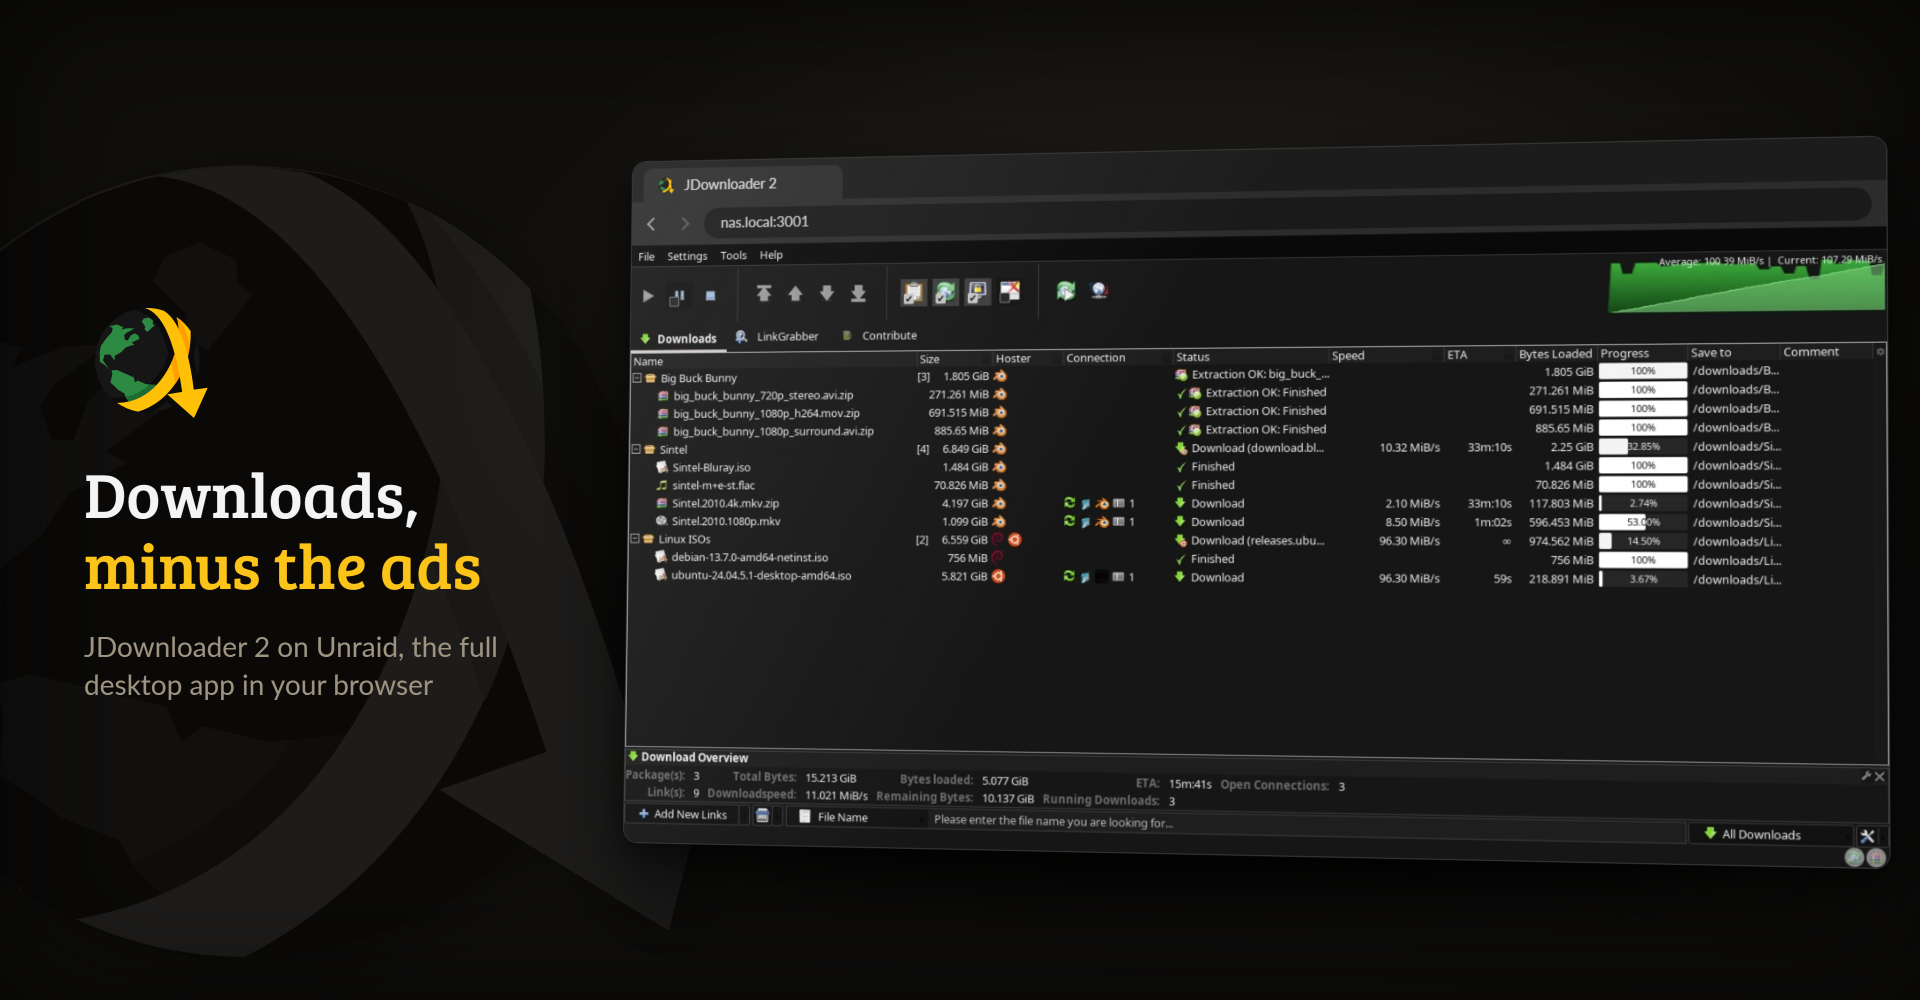
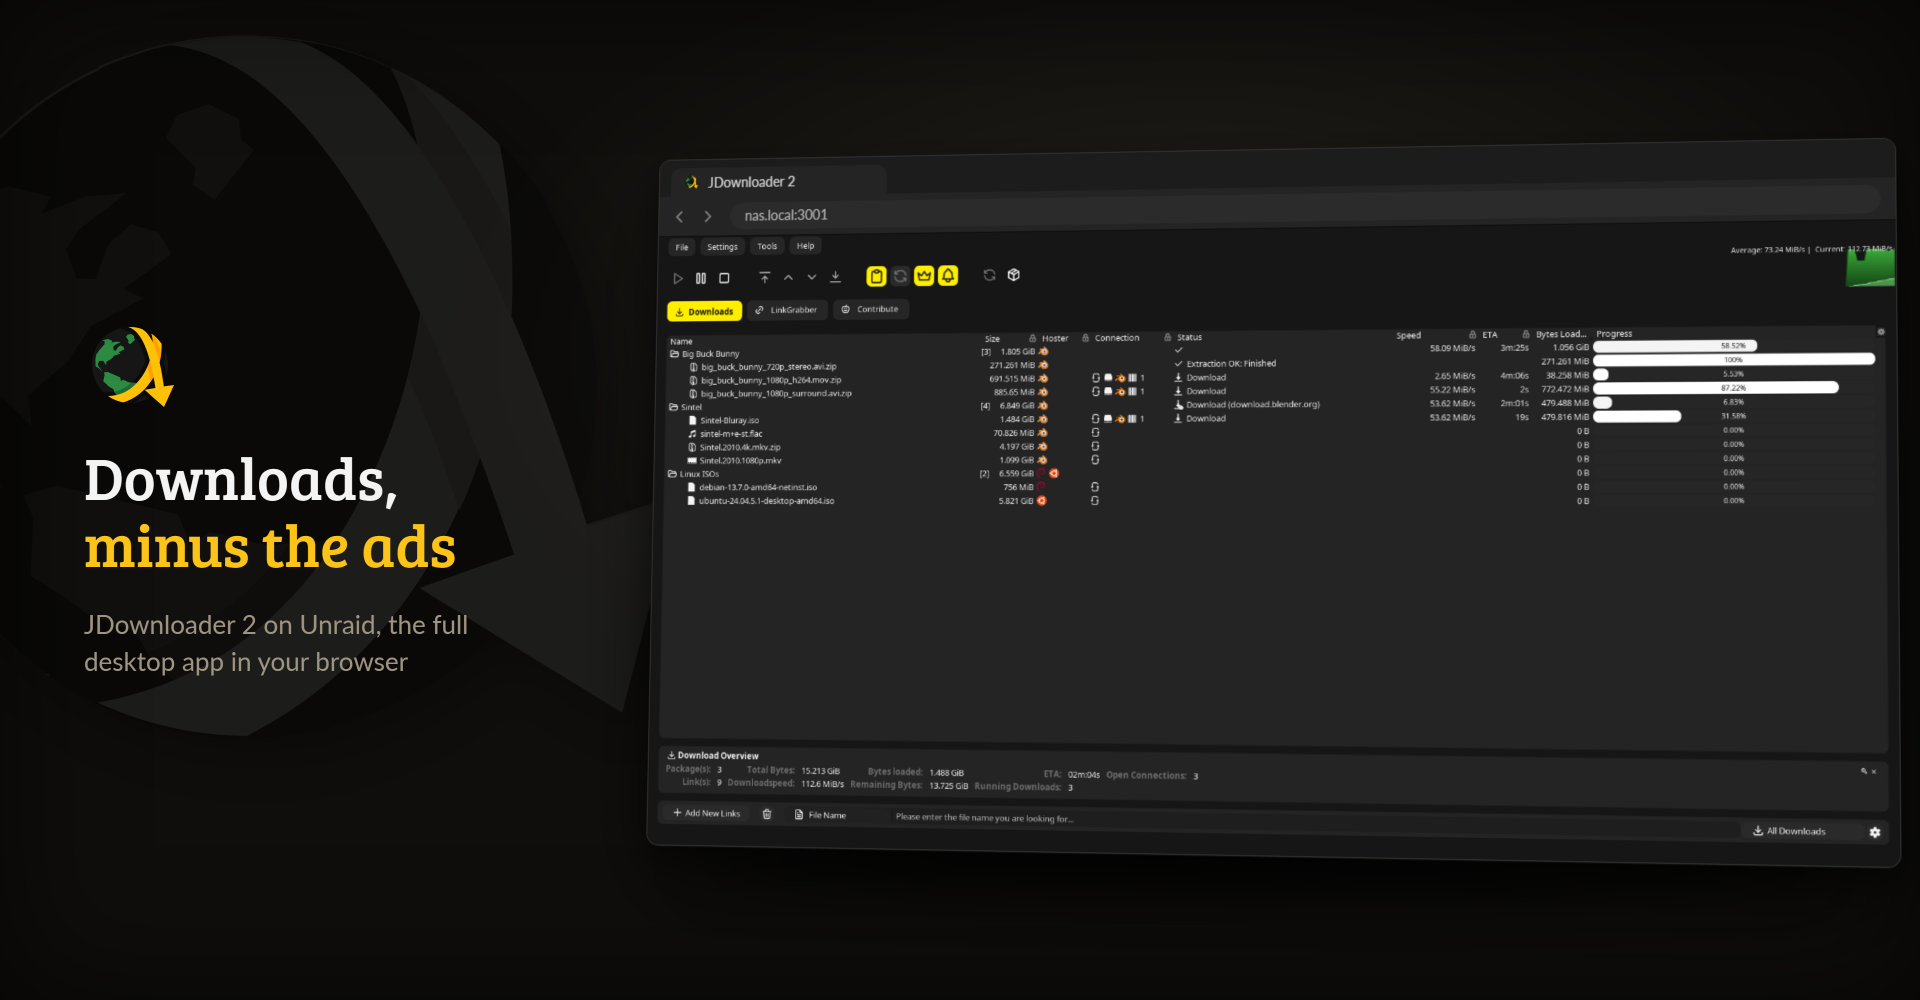
Show JD Highlighter in the README pictures and write the 4.9.0 notes

diff --git a/README.md b/README.md
@@ -20,11 +20,12 @@
 
 <p align="center">
 A modern, plug-and-play Docker image for <b>JDownloader 2</b> on Unraid with a
-<b>fully dark and ad-free UI</b> out of the box: a monochrome IBM&nbsp;Carbon&nbsp;<code>#161616</code>
-dark across the <i>entire</i> interface (download list, link grabber <b>and</b> settings, not just
-the menu bar), with light fills + readable text on the progress bars and a borderless,
-maximised kiosk window. JDownloader's built-in advertisements are switched off, so the
-download graph keeps its full height. Full GUI in your browser via Selkies, zero first-run setup.
+<b>dark and ad-free UI</b> out of the box: <b>JD&nbsp;Highlighter</b>, a borderless IBM&nbsp;Carbon&nbsp;<code>#161616</code>
+theme with one accent colour you pick yourself, across the <i>entire</i> interface (download list,
+link grabber <b>and</b> settings, not just the menu bar), in a maximised kiosk window. A light
+version and the plain Carbon looks are a pick in JDownloader's settings. JDownloader's built-in advertisements are
+switched off, so the download graph keeps its full height. Full GUI in your browser via Selkies,
+zero first-run setup.
 </p>
 
 <!-- download-buttons: written by scripts/gen_download_buttons.py -->
@@ -88,8 +89,8 @@ If it has earned a place on your server or computer, toss a coin to your knight:
 The downloads in these pictures are Blender's open movies and two Linux images, loaded in a test container.
 
 <p align="center">
-  <img src=".github/assets/screenshots/jdownloader-downloads.png" alt="JDownloader's download list in a browser window, with three packages downloading and the speed graph in the toolbar" width="100%">
-  <br><em>The download list in Dark Mode, with the speed graph at full height</em>
+  <img src=".github/assets/screenshots/jdownloader-downloads.png" alt="JDownloader's download list in JD Highlighter Dark in a browser window, with three packages downloading and the speed graph in the toolbar" width="100%">
+  <br><em>The download list in JD Highlighter Dark, with the speed graph at full height</em>
 </p>
 
 <p align="center">
@@ -98,8 +99,13 @@ The downloads in these pictures are Blender's open movies and two Linux images, 
 </p>
 
 <p align="center">
-  <img src=".github/assets/screenshots/jdownloader-settings.png" alt="JDownloader's general settings, dark like the rest of the app" width="100%">
-  <br><em>The settings use the same dark palette as everything else</em>
+  <img src=".github/assets/screenshots/jdownloader-settings.png" alt="JDownloader's general settings in JD Highlighter Dark, on rounded cards" width="100%">
+  <br><em>The settings use the same palette and accent as everything else</em>
+</p>
+
+<p align="center">
+  <img src=".github/assets/screenshots/jdownloader-light.png" alt="The User Interface settings in JD Highlighter Light, with the accent colour row and the open Appearance menu listing the four looks" width="100%">
+  <br><em>Accent colour and look are picked in JDownloader's own settings</em>
 </p>
 
 <br>
@@ -107,7 +113,7 @@ The downloads in these pictures are Blender's open movies and two Linux images, 
 ## 2. What it does
 
 - **Selkies instead of noVNC.** A hybrid VNC and H.264 stream for a smooth desktop at 60 fps, a real clipboard in both directions, and file upload and download from the browser.
-- **Dark everywhere.** A monochrome IBM Carbon `#161616` palette covers the download list, the LinkGrabber and the settings, not only the menu bar. One variable switches to a matching light theme or to JDownloader's classic look.
+- **Dark everywhere, in your colour.** [JD Highlighter](https://github.com/junkerderprovinz/jd-highlighter) covers the download list, the LinkGrabber and the settings with IBM Carbon `#161616`, rounded cards and clean line icons, not only the menu bar. Under Settings › User Interface you pick the accent colour and the look: JD Highlighter Dark or Light, or the plain Carbon looks JD Plain Dark and Light. The pick survives image updates, and `JD_THEME=JDDEFAULT` still brings back JDownloader's classic look.
 - **No ads.** The premium banner, the nag columns and the deal popups are switched off, so the speed graph keeps its full height.
 - **Nothing to set up.** JDownloader installs itself on the first start and updates itself as usual, with Java 21 for the full Swing GUI.
 - **Your settings survive updates.** Links, accounts and session state live in `/config`, and the image runs on amd64 and arm64.

diff --git a/.github/release-notes/v4.9.0.md b/.github/release-notes/v4.9.0.md
@@ -1,0 +1,21 @@
+JDownloader 4.9.0 brings a new look: JD Highlighter, a borderless theme with one accent colour you pick yourself, in dark and in light.
+
+## ✨ Added
+
+- **JD Highlighter Dark is the new default.** IBM Carbon `#161616` with rounded cards, clean line icons from [Tabler](https://tabler.io/icons), menus as pills and round buttons. Hoster lists show each site's colour logo, and the progress globes become a plain accent ring.
+- **JD Highlighter Light**, the same design on `#f4f4f4`.
+- **Pick the accent and the look in JD.** Settings › User Interface has an Accent colour row with a colour picker and an Appearance row with JD Highlighter Dark, JD Highlighter Light, JD Plain Dark and JD Plain Light. JD offers a restart after a change. The pick and the accent live in `/config/.jd-highlighter`, so they survive image updates, and they win over `JD_THEME`.
+
+## 🎨 Design
+
+- **New README pictures** of the download list, the LinkGrabber and the settings in JD Highlighter Dark, plus one in Light.
+- **The plain looks stay as they were.** JD Plain Dark is the look of 4.8, and JD Plain Light is its light version. JDownloader's classic look is still there with `JD_THEME=JDDEFAULT`.
+
+## ⚡ Improved
+
+- **Tooltips show in the browser.** JD only showed them while its window had the focus, which in a browser tab it often has not.
+- **The updater window fits its content.** The close button is no longer cut off, the logo shows in full and a light edge sets the window apart from the list behind it.
+
+## Updating
+
+Containers that use the default or `JD_THEME=Dark` start in JD Highlighter Dark after the update. If you prefer the previous look, pick JD Plain Dark under Settings › User Interface › Appearance, or set `JD_THEME=plain-dark`.
